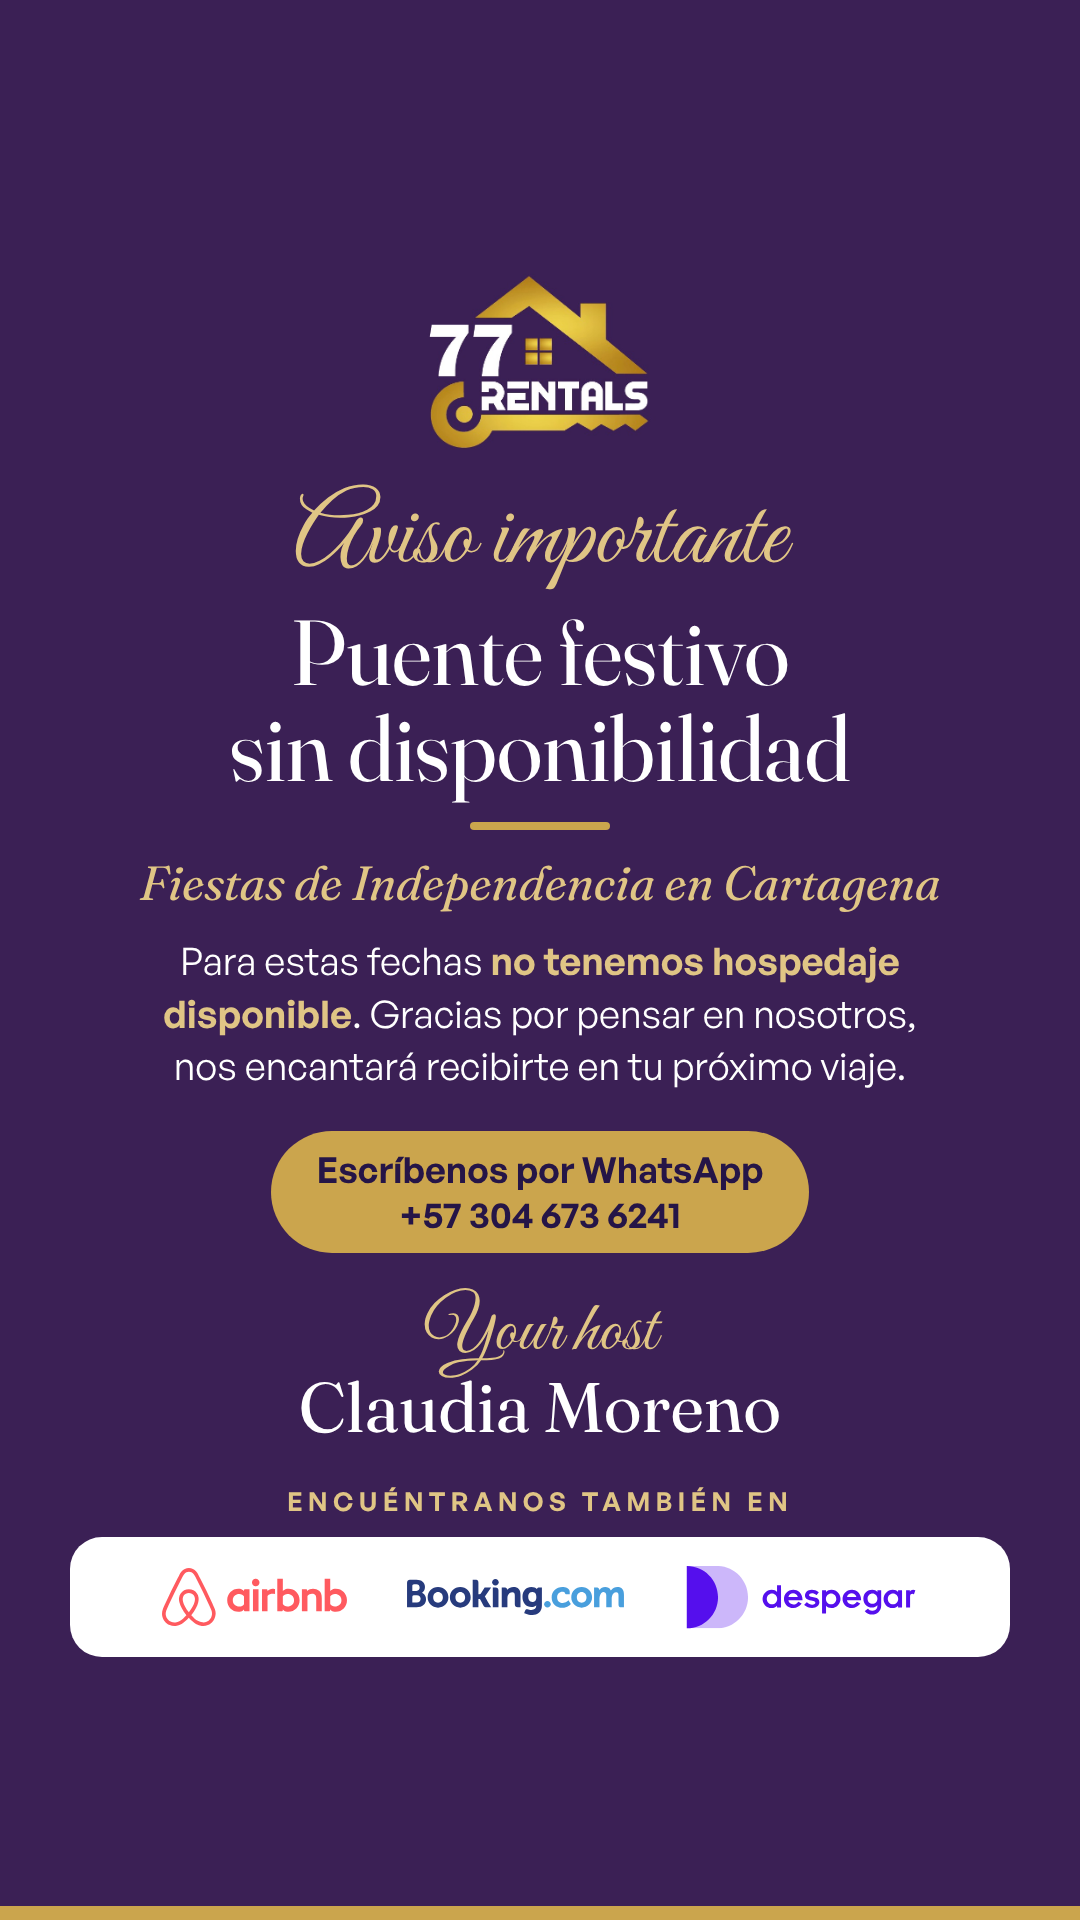
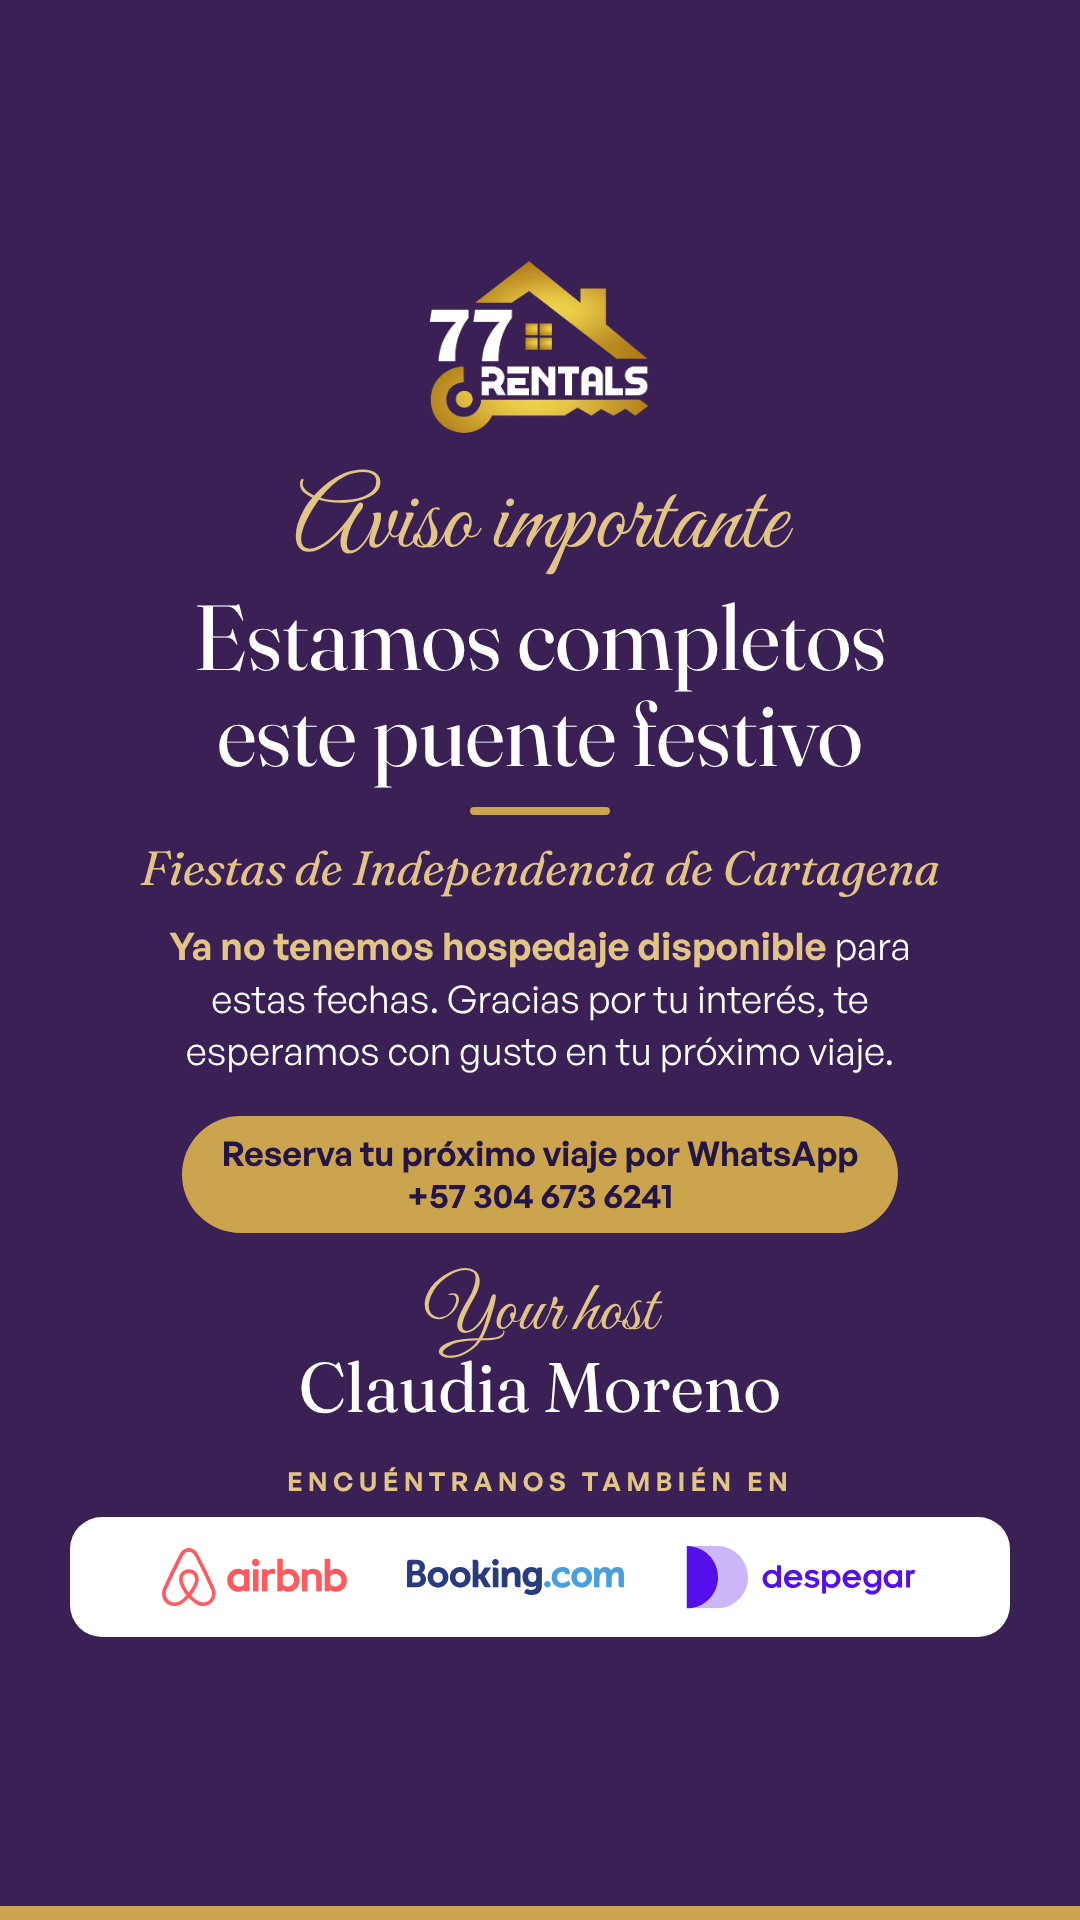
Status poster: warmer, clearer copy
Claude-Session: https://claude.ai/code/session_01TDPBANVe18xXuRLrDjir42

Changed region(s): [[0.0611, 0.125, 0.9472, 0.875]]

diff --git a/posters/status/sin-disponibilidad-puente/sin-disponibilidad-puente.html b/posters/status/sin-disponibilidad-puente/sin-disponibilidad-puente.html
@@ -15,7 +15,7 @@
   }
   * { box-sizing: border-box; margin: 0; padding: 0; }
   body { background: #222; font-family: var(--font-body); color: var(--white); }
-  .poster { width: 1080px; height: 1920px; background: var(--purple-logo); position: relative; overflow: hidden; display: flex; flex-direction: column; align-items: center; padding: 260px 70px 0; text-align: center; }
+  .poster { width: 1080px; height: 1920px; background: var(--purple-logo); position: relative; overflow: hidden; display: flex; flex-direction: column; align-items: center; padding: 245px 70px 0; text-align: center; }
   .poster::after { content: ""; position: absolute; left: 0; right: 0; bottom: 0; height: 14px; background: var(--gold); }
   .logo { width: 290px; display: block; flex: none; }
   .script { font-family: var(--font-script); color: var(--gold-light); font-size: 100px; line-height: 1; margin-top: 22px; }
@@ -25,7 +25,7 @@
   .fiestas { font-family: var(--font-heading); font-style: italic; font-size: 48px; line-height: 1.2; color: var(--gold-light); margin-top: 24px; white-space: nowrap; text-wrap: balance; }
   .text { font-size: 38px; line-height: 1.38; margin-top: 24px; text-wrap: balance; }
   .text strong { font-weight: 600; color: var(--gold-light); }
-  .cta { margin-top: 38px; background: var(--gold); color: var(--purple-dark); border-radius: 999px; padding: 16px 46px; font-size: 36px; font-weight: 600; line-height: 1.25; }
+  .cta { margin-top: 38px; background: var(--gold); color: var(--purple-dark); border-radius: 999px; padding: 16px 40px; font-size: 34px; font-weight: 600; line-height: 1.25; }
   .host-label { font-family: var(--font-script); font-size: 72px; line-height: 1; color: var(--gold-light); margin-top: 44px; }
   .host { font-family: var(--font-heading); font-size: 70px; line-height: 1.05; margin-top: 2px; }
   .find { font-size: 26px; font-weight: 600; letter-spacing: .2em; text-transform: uppercase; color: var(--gold-light); margin-top: 40px; }
@@ -37,11 +37,11 @@
 <div class="poster" id="poster">
   <img class="logo" src="../../../brand/logos/logo77.jpeg" alt="77Rentals" style="border-radius:28px">
   <div class="script">Aviso importante</div>
-  <h1>Puente festivo sin disponibilidad</h1>
+  <h1>Estamos completos este puente festivo</h1>
   <div class="rule"></div>
-  <div class="fiestas">Fiestas de Independencia en Cartagena</div>
-  <p class="text">Para estas fechas <strong>no tenemos hospedaje disponible</strong>. Gracias por pensar en nosotros, nos encantará recibirte en tu próximo viaje.</p>
-  <div class="cta">Escríbenos por WhatsApp<br>+57 304 673 6241</div>
+  <div class="fiestas">Fiestas de Independencia de Cartagena</div>
+  <p class="text"><strong>Ya no tenemos hospedaje disponible</strong> para estas fechas. Gracias por tu interés, te esperamos con gusto en tu próximo viaje.</p>
+  <div class="cta">Reserva tu próximo viaje por WhatsApp<br>+57 304 673 6241</div>
   <div class="host-label">Your host</div>
   <div class="host">Claudia Moreno</div>
   <div class="find">Encuéntranos también en</div>
